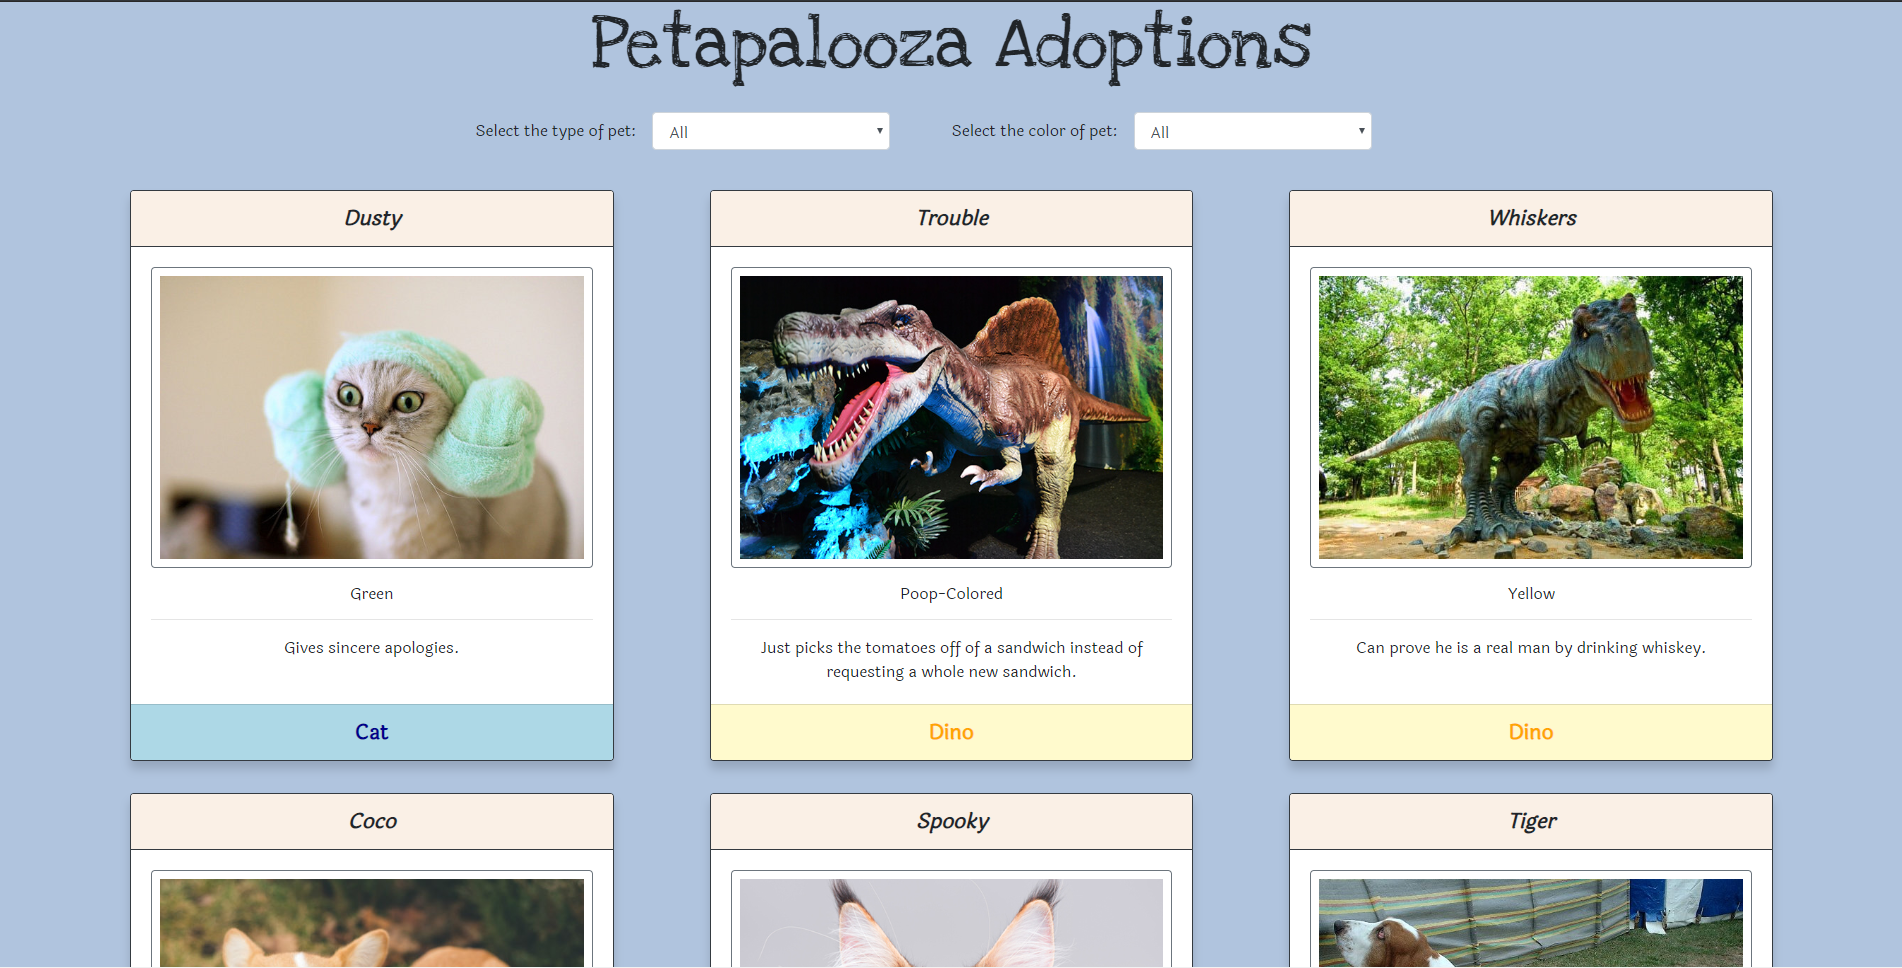
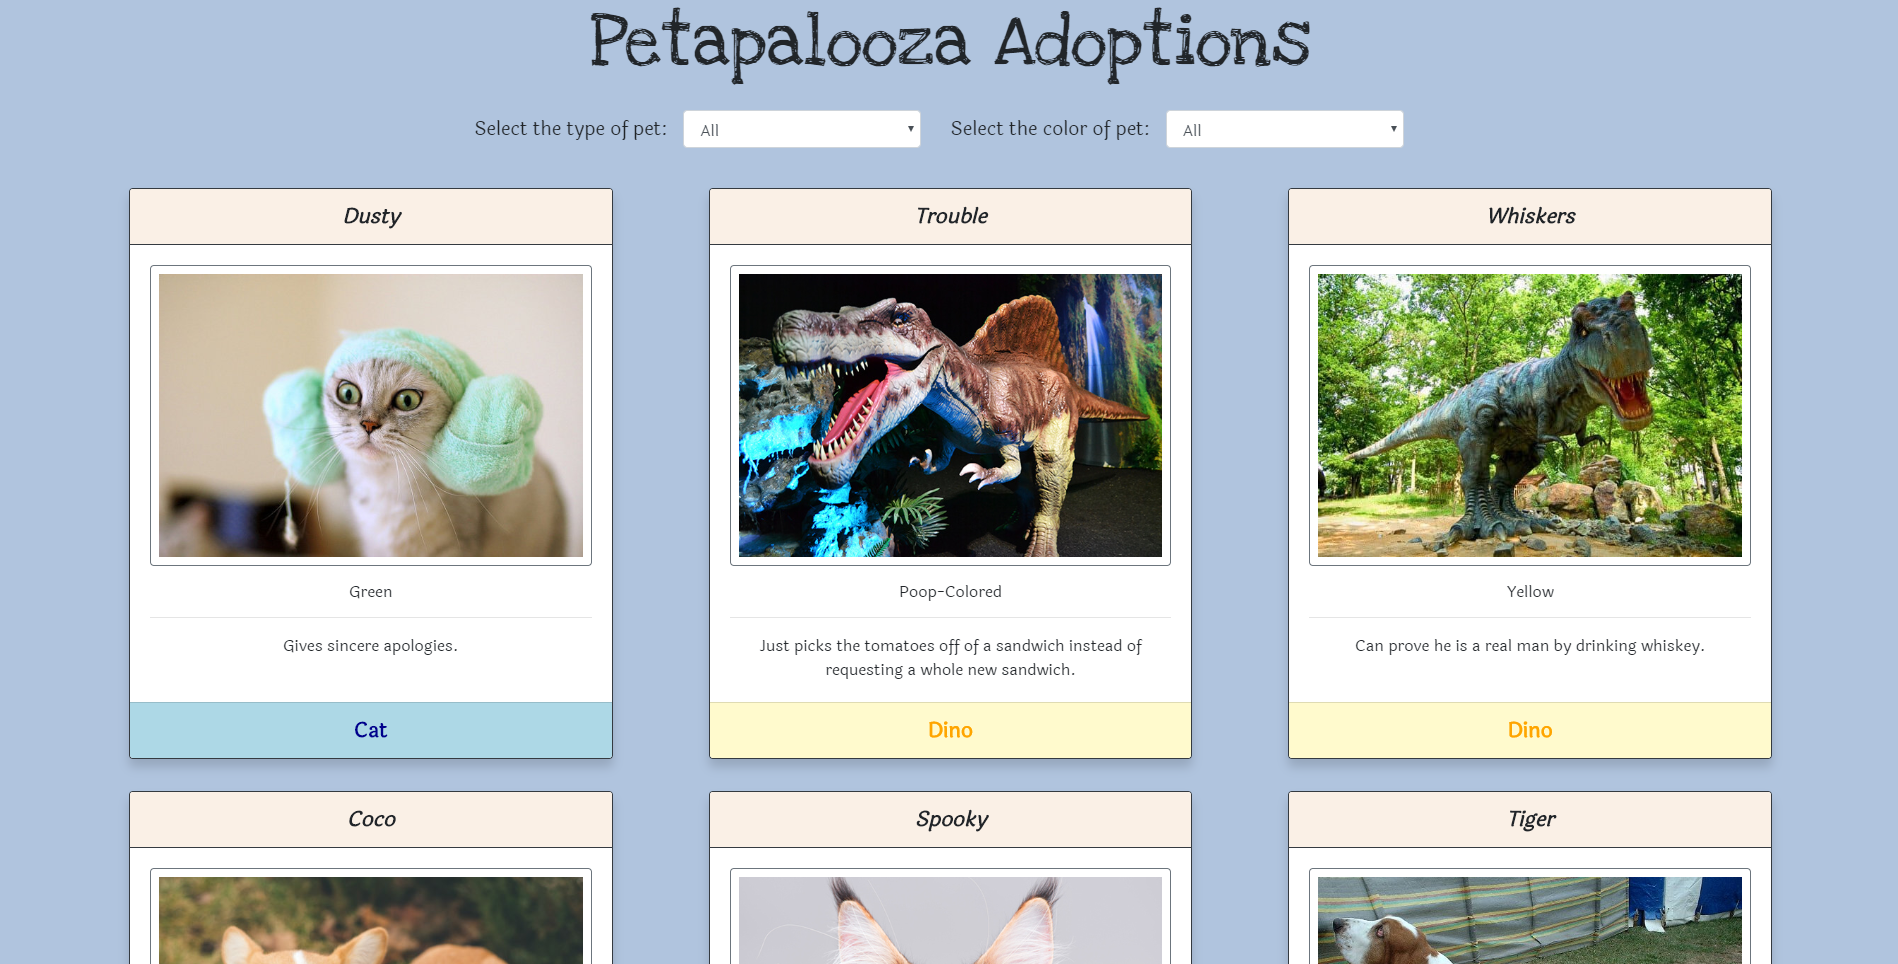
increased font size on input and updated screenshot

diff --git a/main.css b/main.css
@@ -30,3 +30,7 @@ body {
 .card-footer {
   font-size: 1.3rem;
 }
+
+label {
+  font-size: 1.2rem;
+}
